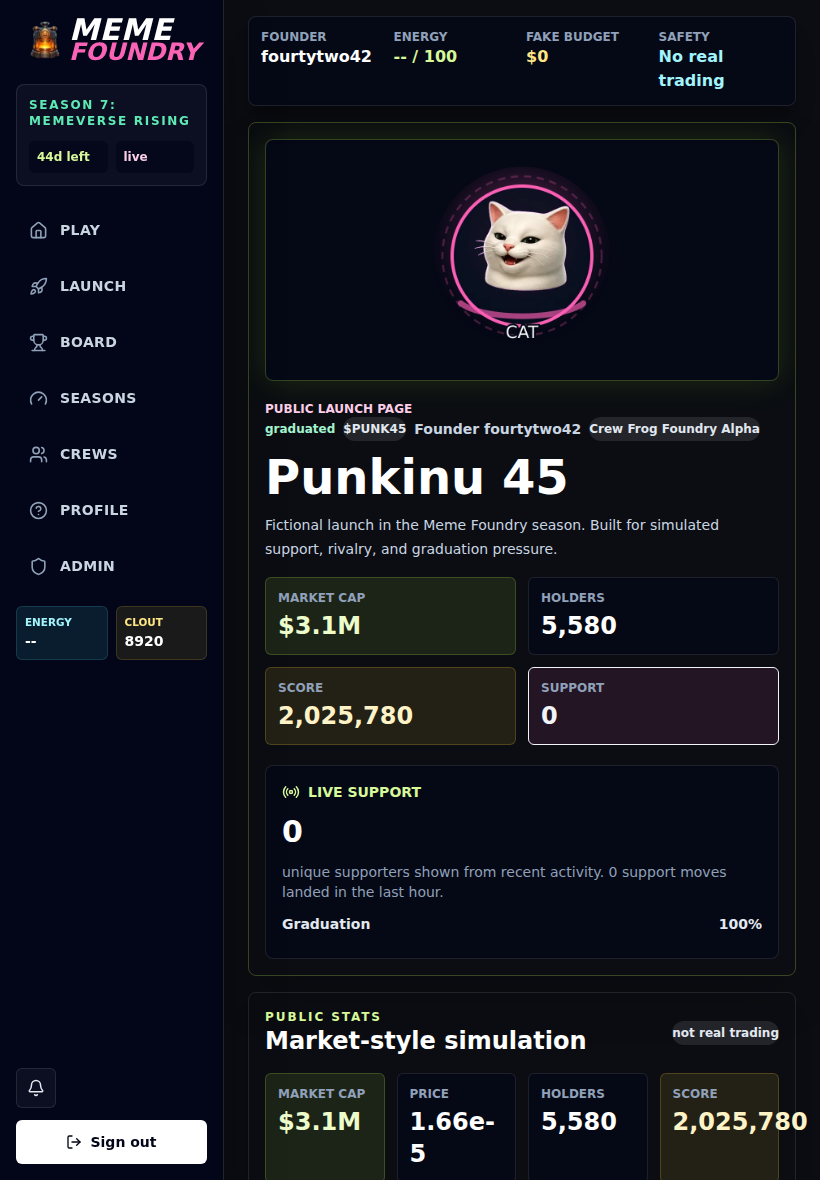
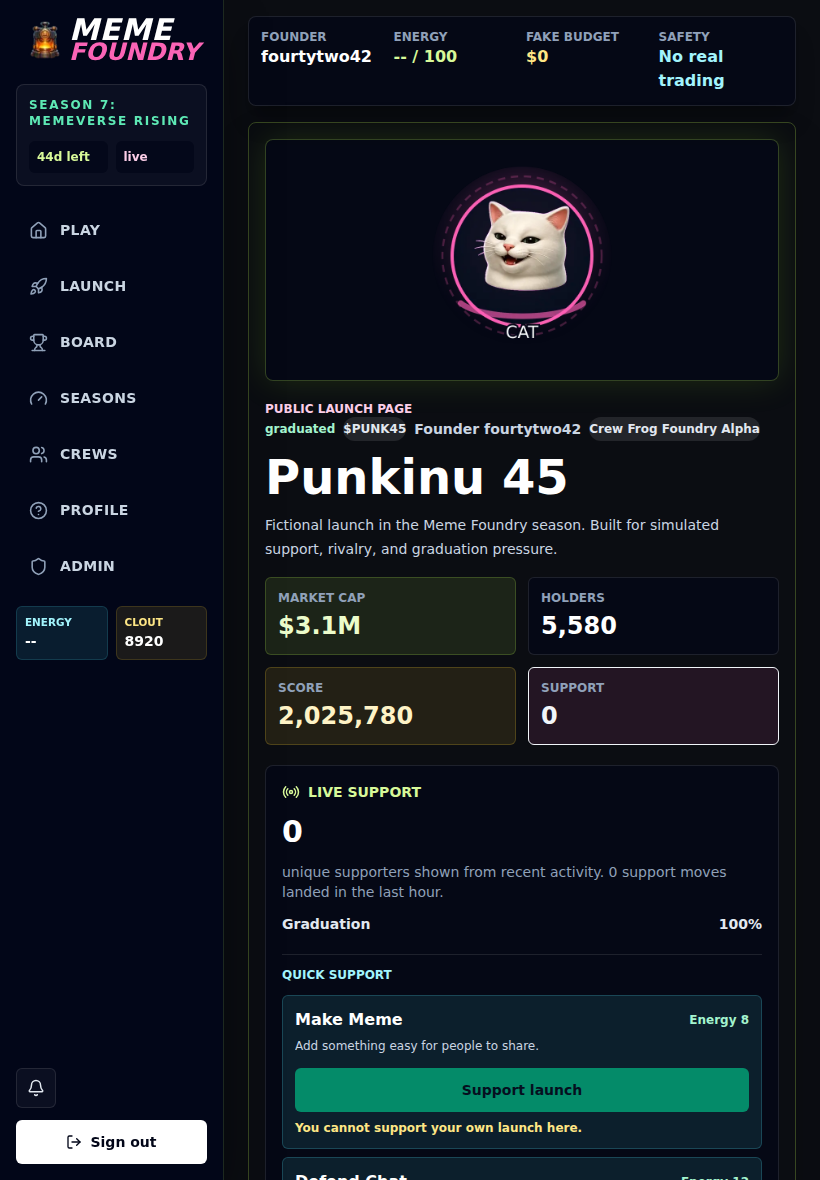
Move public support actions higher

Changed region(s): [[0.3049, 0.7932, 1.0, 1.0]]

diff --git a/apps/web/src/app/token/[id]/page.tsx b/apps/web/src/app/token/[id]/page.tsx
@@ -277,6 +277,97 @@ export default async function PublicTokenPage({
                 tone="good"
                 value={graduationProgress(token)}
               />
+              <div className="border-t border-white/10 pt-3">
+                <p className="text-xs font-black uppercase text-cyan-200">
+                  Quick support
+                </p>
+                <div className="mt-3 grid gap-2">
+                  {(
+                    [
+                      SUPPORT_ACTION_CATALOG.MAKE_MEME,
+                      SUPPORT_ACTION_CATALOG.DEFEND_CHAT
+                    ] satisfies Array<
+                      (typeof SUPPORT_ACTION_CATALOG)[SupportActionId]
+                    >
+                  ).map((action) => {
+                    const last = latestByAction.get(action.id);
+                    const remainingSeconds = last
+                      ? Math.max(
+                          0,
+                          Math.ceil(
+                            (last.getTime() +
+                              action.cooldownSeconds * 1000 -
+                              now) /
+                              1000
+                          )
+                        )
+                      : 0;
+                    const disabledReason = !sessionUser
+                      ? "Sign in to support."
+                      : isOwner
+                        ? "You cannot support your own launch here."
+                        : token.status !== "live"
+                          ? "Only live launches can receive support."
+                          : sessionUser.supportEnergy < action.energyCost
+                            ? "Not enough support energy."
+                            : remainingSeconds > 0
+                              ? cooldownLabel(remainingSeconds)
+                              : null;
+                    return (
+                      <form
+                        action={supportTokenAction}
+                        className="rounded-md border border-cyan-300/20 bg-cyan-300/10 p-3"
+                        data-testid={`quick-support-${action.id}`}
+                        key={action.id}
+                      >
+                        <input name="tokenId" type="hidden" value={token.id} />
+                        <input
+                          name="actionId"
+                          type="hidden"
+                          value={action.id}
+                        />
+                        <input
+                          name="nonce"
+                          type="hidden"
+                          value={`quick-${token.id}-${action.id}-${Date.now()}`}
+                        />
+                        <div className="flex items-start justify-between gap-2">
+                          <div>
+                            <p className="font-black text-white">
+                              {displaySupportLabel(action.id)}
+                            </p>
+                            <p className="mt-1 line-clamp-2 text-xs leading-5 text-slate-300">
+                              {action.plainPurpose}
+                            </p>
+                          </div>
+                          <Badge tone="good">Energy {action.energyCost}</Badge>
+                        </div>
+                        {sessionUser ? (
+                          <Button
+                            className="mt-3 w-full"
+                            disabled={Boolean(disabledReason)}
+                            type="submit"
+                          >
+                            Support launch
+                          </Button>
+                        ) : (
+                          <Link
+                            className="mt-3 inline-flex min-h-10 w-full items-center justify-center rounded-md bg-cyan-300 px-3 py-2 text-sm font-black text-slate-950 hover:bg-cyan-200"
+                            href="/signin"
+                          >
+                            Sign in
+                          </Link>
+                        )}
+                        {disabledReason ? (
+                          <p className="mt-2 text-xs font-bold text-amber-200">
+                            {disabledReason}
+                          </p>
+                        ) : null}
+                      </form>
+                    );
+                  })}
+                </div>
+              </div>
             </div>
           </div>
         </NeonPanel>

diff --git a/docs/evidence/PRD_SCREEN_ALIGNMENT_STAGE7_PUBLIC_TOKEN_PARTIAL.md b/docs/evidence/PRD_SCREEN_ALIGNMENT_STAGE7_PUBLIC_TOKEN_PARTIAL.md
@@ -1,0 +1,37 @@
+# PRD Screen Alignment Stage 7 Public Token Partial
+
+Date: 2026-05-13
+
+## Completed
+
+- Added compact real support forms to the public token hero right rail so support actions appear before the lower full catalog.
+- The hero now exposes quick support alongside live support, graduation progress, and no-real-trading context.
+- Browser-use verified `/token/cmp2nzjhx0000xdoai640jhgs` shows:
+  - public launch page;
+  - no-real-trading language;
+  - quick support;
+  - full support actions;
+  - market-style simulation;
+  - top supporters;
+  - NPC feed;
+  - image pipeline.
+- Console errors: `0`.
+
+## Automated Verification
+
+Passed:
+
+```bash
+pnpm --filter @meme-foundry/web typecheck
+pnpm --filter @meme-foundry/web build
+curl -fsS http://192.168.50.209/health
+PLAYWRIGHT_BASE_URL=http://192.168.50.209 pnpm test:visual-audit
+```
+
+## Blocker
+
+Stage 7 is not complete yet.
+
+Browser-use must execute a public support action from a non-owner supporter session to satisfy the stage gate. The current browser session was the token owner, so support was correctly disabled. Signing into the supporter account through browser-use was blocked by browser interaction/input limitations, and a `javascript:` URL attempt was rejected by browser-use policy. Do not retry that blocked path.
+
+Next agent should complete Stage 7 by using a normal browser-use-safe login path or an already-authenticated non-owner supporter browser session, then execute a support action through the live UI and record evidence.
